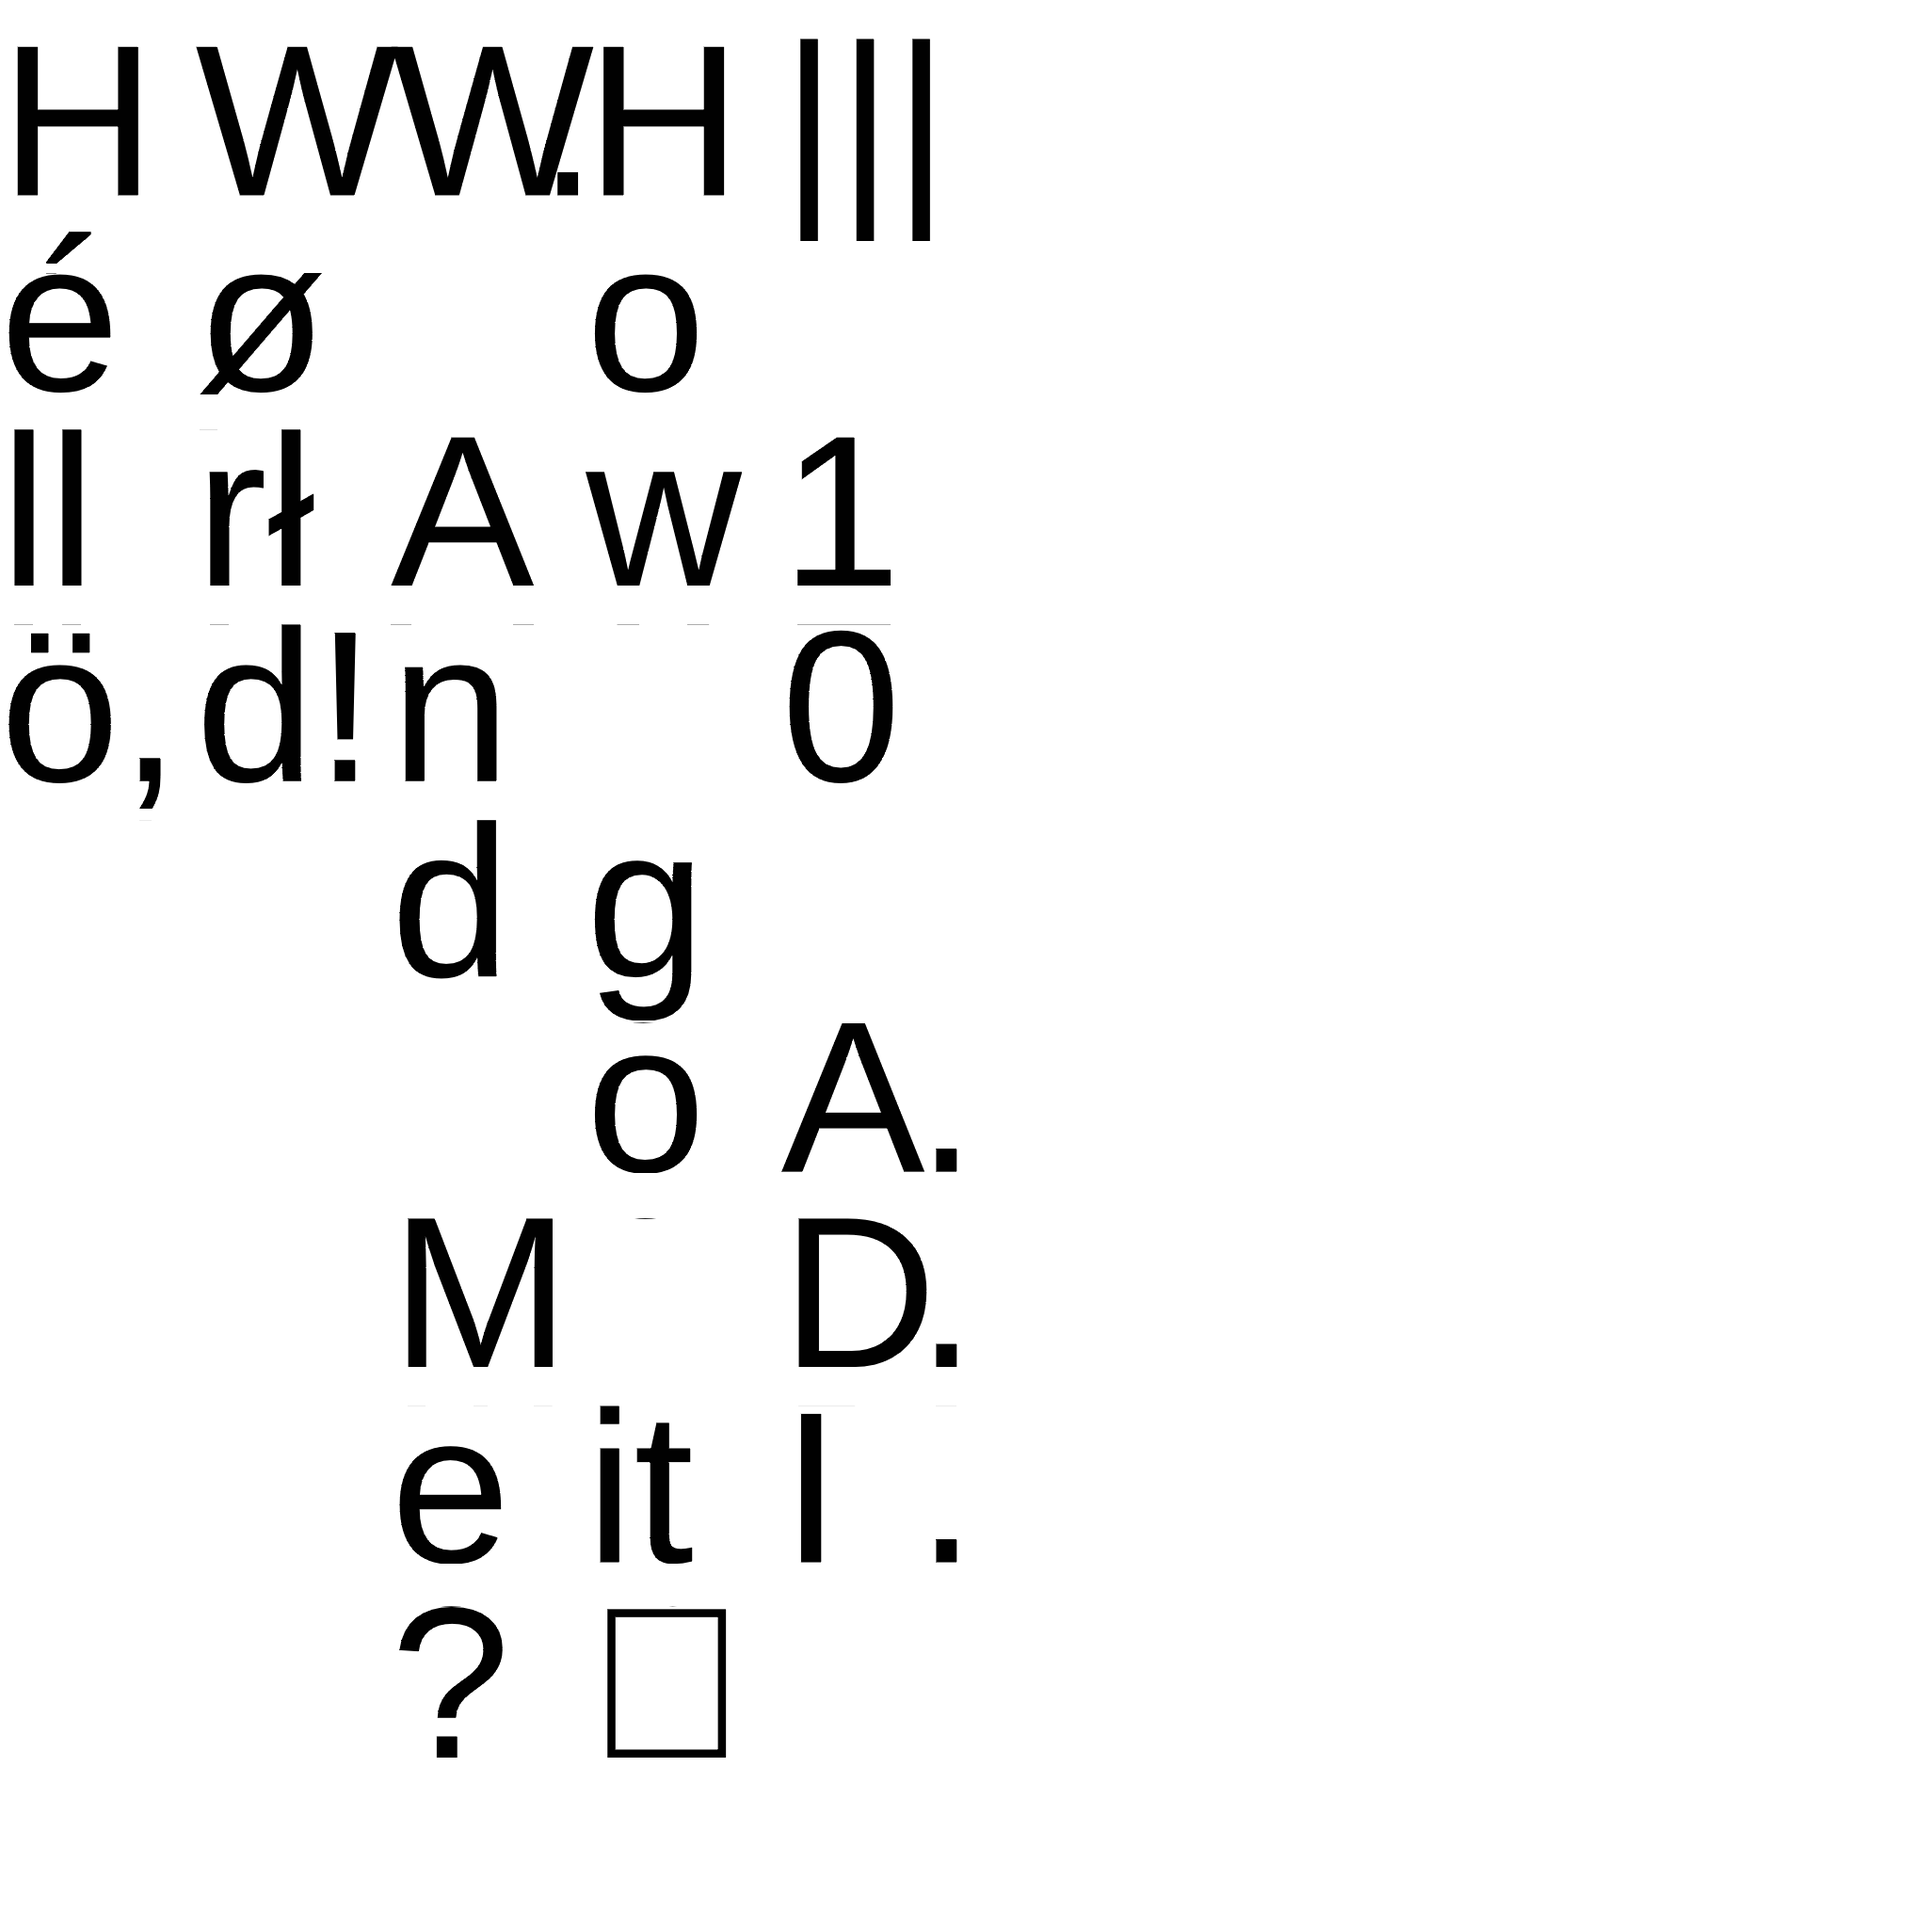
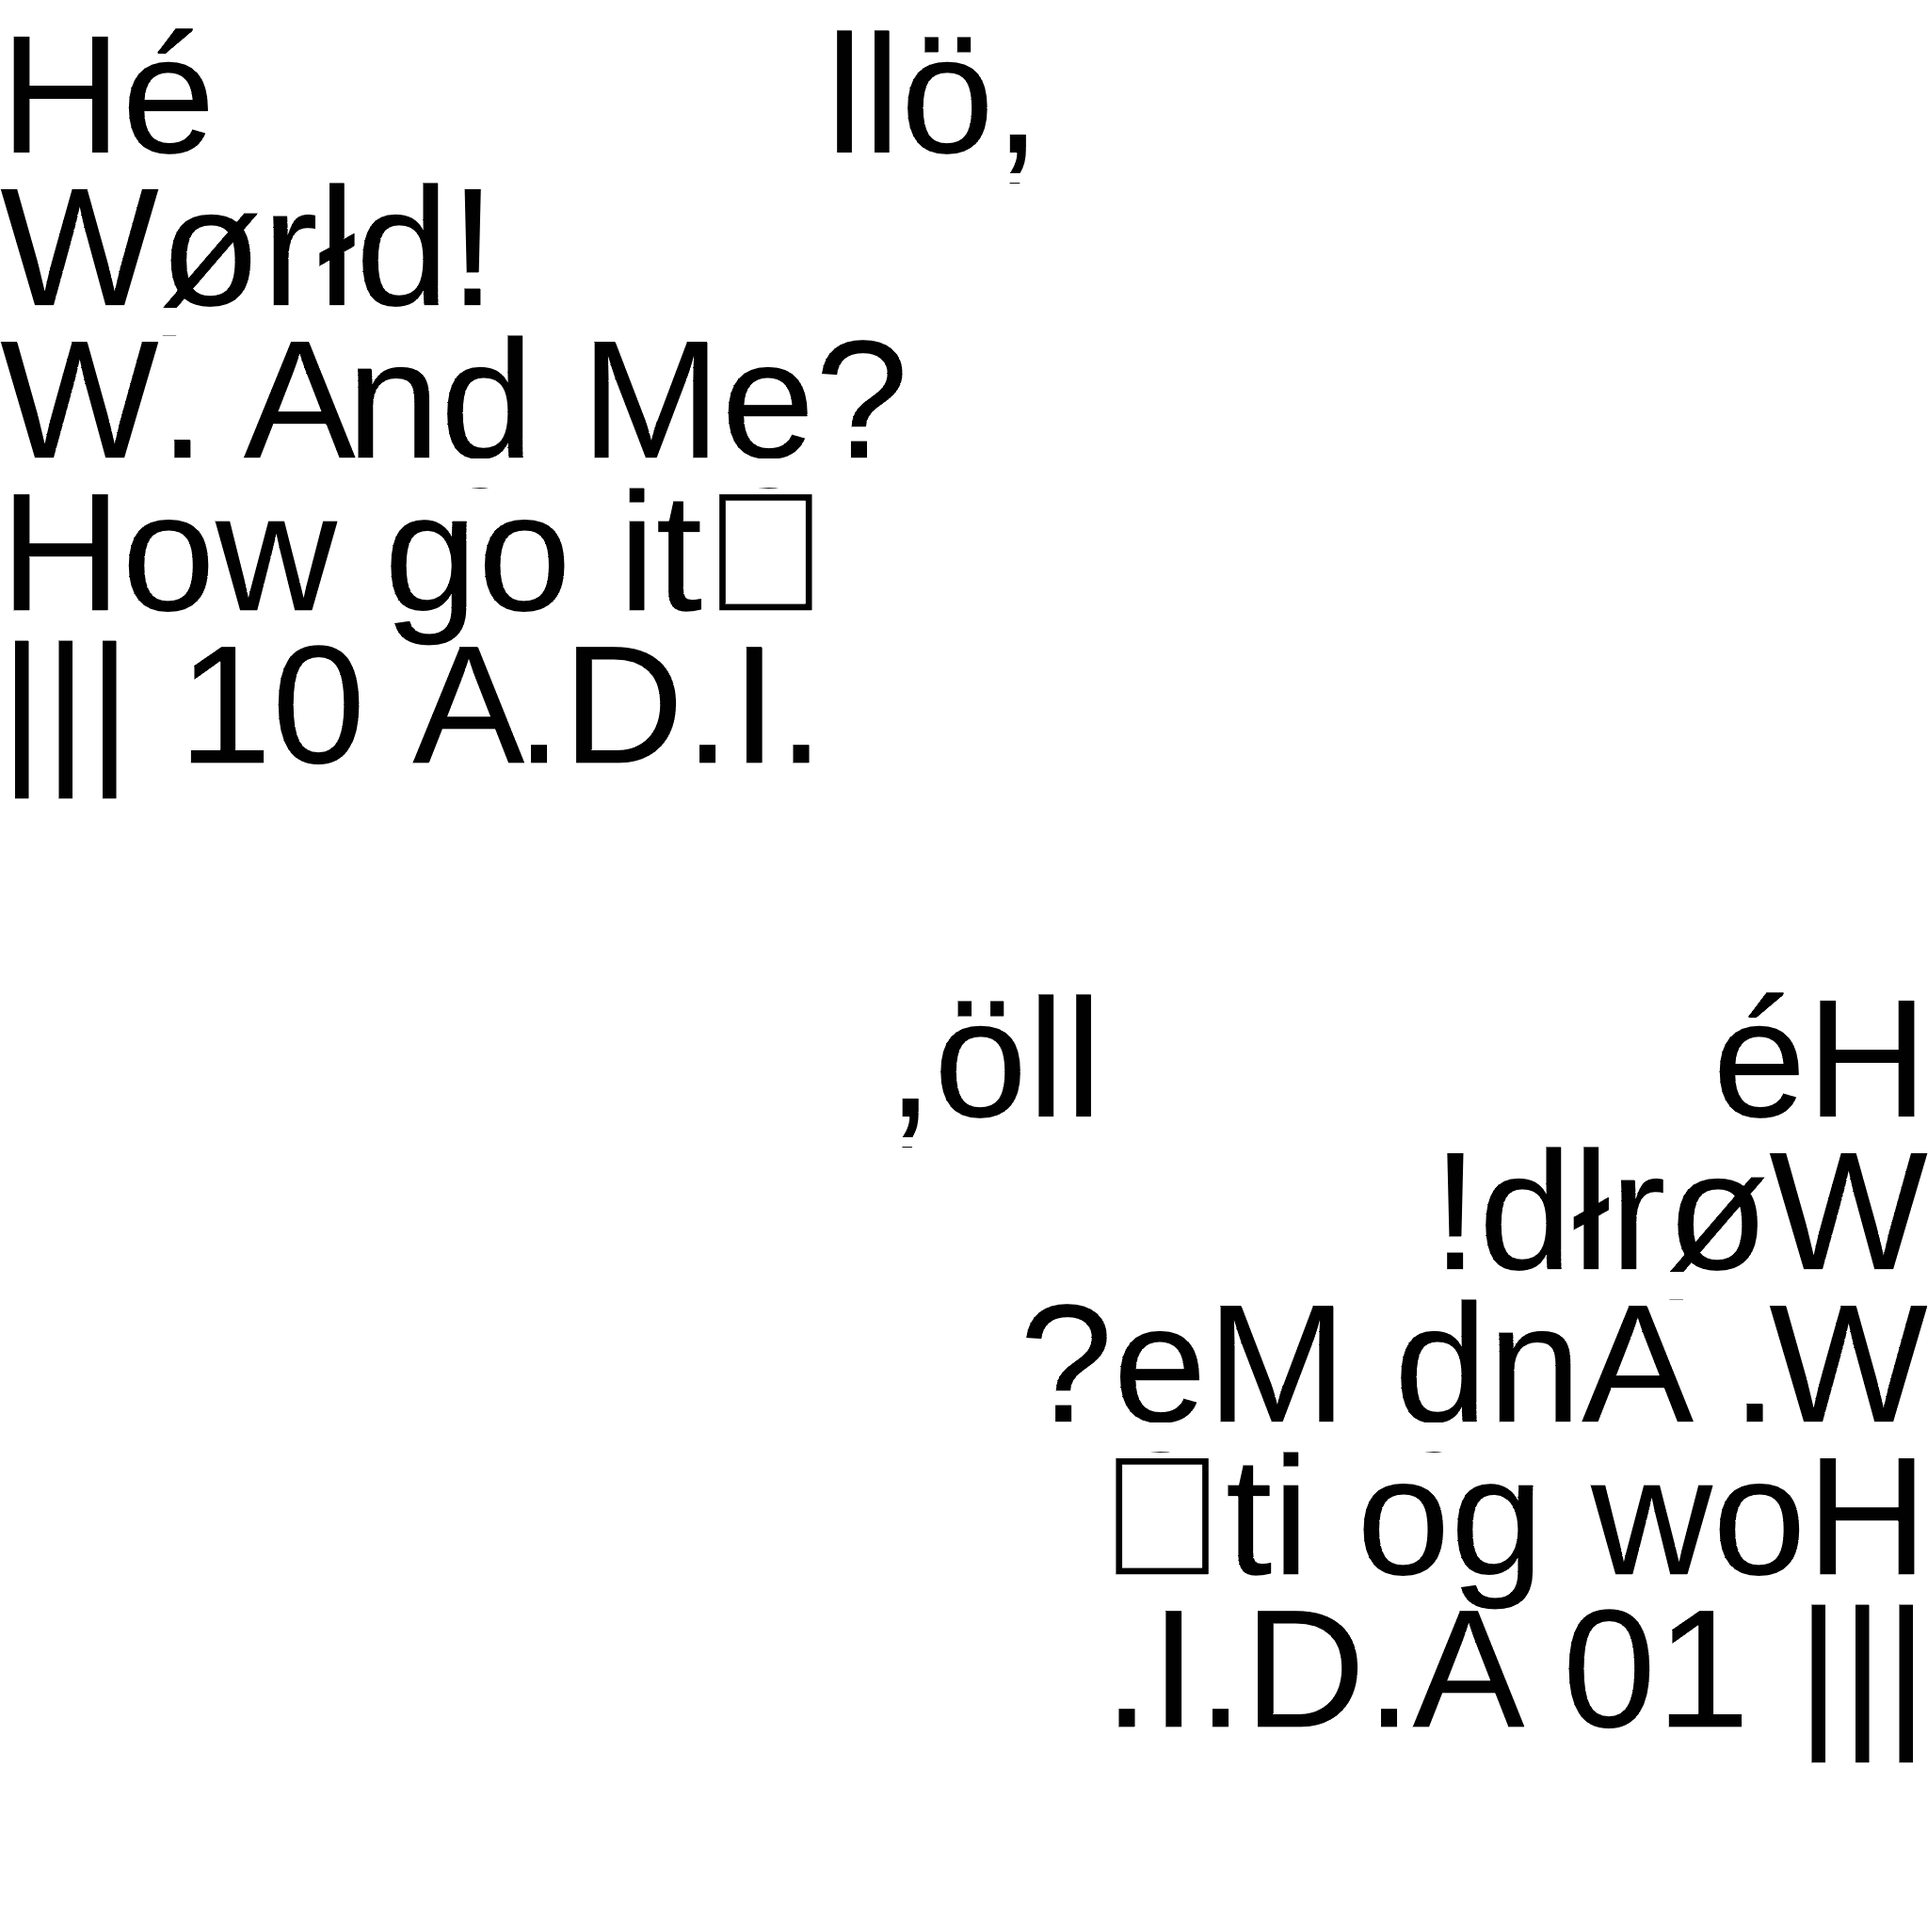
Added right-to-left text layout support.

diff --git a/src/lib.rs b/src/lib.rs
@@ -324,21 +324,9 @@ impl<'a> PathIterator<'a> {
         self
     }
 
-/*    /// Modify the iterator to align characters horizontally.  This is the default.
-    pub fn horizontal(mut self) -> &mut Self {
-        self.vt = false;
-        self
-    }*/
-    
-    /// Modify the iterator to align characters vertically rather than horizontally.
-    pub fn right_to_left(&mut self) -> &mut Self {
+    /// Modify the iterator to align characters right to left.
+    pub fn right_to_left(mut self) -> Self {
         self.rl = true;
-        self
-    }
-
-    /// Modify the iterator to align characters horizontally.  This is the default.
-    pub fn left_to_right(&mut self) -> &mut Self {
-        self.rl = false;
         self
     }
 }
@@ -360,7 +348,7 @@ impl<'a> Iterator for PathIterator<'a> {
                 self.advance = 0.0;
                 if self.vt { // Vertical text
                     self.cy = self.y;
-                    self.cx += glyph.font().v_metrics(glyph.v);
+                    self.cx += if self.rl { -1.0 } else { 1.0 } * glyph.font().v_metrics(glyph.v);
                     self.f = 0.0;
                 } else { // Horizontal text
                     self.cx = self.x;
@@ -378,7 +366,7 @@ impl<'a> Iterator for PathIterator<'a> {
                     self.f = 0.0;
                     self.cy += glyph.font().v_metrics(glyph.v);
                 } else {
-                    self.cx += glyph.font().v_metrics(glyph.v) * 4.0;
+                    self.cx += glyph.font().v_metrics(glyph.v) * if self.rl { -4.0 } else { 4.0 };
                 }
                 return Self::next(self);
             }
@@ -392,11 +380,10 @@ impl<'a> Iterator for PathIterator<'a> {
                     self.cy += glyph.font().v_metrics(glyph.v);
                 }
             } else { // Horizontal text
-                self.cx += self.advance;
+                self.cx += if self.rl { -self.advance } else { self.advance };
             }
             self.advance = advance;
             self.glyph = Some(glyph);
-
         }
 
         let shape = {
@@ -416,7 +403,7 @@ impl<'a> Iterator for PathIterator<'a> {
         let glyph = self.glyph.as_ref().unwrap();
         let ay = glyph.font().v_metrics(glyph.v);
 
-        let x = v.x as f32 * glyph.v.0 + self.cx + self.f;
+        let x = v.x as f32 * glyph.v.0 + self.cx + if self.rl { -self.advance - self.f } else { self.f };
         let y = -v.y as f32 * glyph.v.1 + self.cy + ay;
 
         use tt::VertexType;
@@ -424,7 +411,7 @@ impl<'a> Iterator for PathIterator<'a> {
         match v.vertex_type() {
             VertexType::LineTo => unsafe { OP = PathOp::Line(x, y) },
             VertexType::CurveTo => {
-                let cx = v.cx as f32 * glyph.v.0 + self.cx + self.f;
+                let cx = v.cx as f32 * glyph.v.0 + self.cx + if self.rl { -self.advance - self.f } else { self.f };
                 let cy = -v.cy as f32 * glyph.v.1 + self.cy + ay;
 
                 unsafe { OP = PathOp::Quad(cx, cy, x, y) };

diff --git a/examples/raster.rs b/examples/raster.rs
@@ -9,7 +9,9 @@ use fonterator::Font;
 use footile::{FillRule, Plotter, Raster, Rgba8};
 
 const FONT: &[u8] = include_bytes!("../font/LiberationSans-Regular.ttf");
-const FONT_SIZE: f32 = 256.0;
+const FONT_SIZE: f32 = 200.0;
+
+const STR: &'static str = "Hé\tllö,\nWørłd!\nW. And Me?\nHow go it‽\n||| 10 A.D.I.";
 
 fn main() {
     // This only succeeds if collection consists of one font
@@ -19,7 +21,13 @@ fn main() {
     let mut p = Plotter::new(2048, 2048);
     let mut r = Raster::new(p.width(), p.height());
 
-    let path = font.render("Hé\tllö,\nWørłd!\nW. And Me?\nHow go it‽\n||| 10 A.D.I.", (0.0, 0.0), (FONT_SIZE, FONT_SIZE)).vertical(); // path.build();
+//    let path = font.render(STR, (1024.0, 0.0), (FONT_SIZE, FONT_SIZE)).vertical().right_to_left();
+//    r.over(p.fill(path, FillRule::NonZero), Rgba8::rgb(0, 0, 0));
+//    let path = font.render(STR, (1024.0, 0.0), (FONT_SIZE, FONT_SIZE)).vertical();
+//    r.over(p.fill(path, FillRule::NonZero), Rgba8::rgb(0, 0, 0));
+    let path = font.render(STR, (0.0, 0.0), (FONT_SIZE, FONT_SIZE));
+    r.over(p.fill(path, FillRule::NonZero), Rgba8::rgb(0, 0, 0));
+    let path = font.render(STR, (2048.0, 1024.0), (FONT_SIZE, FONT_SIZE)).right_to_left();
     r.over(p.fill(path, FillRule::NonZero), Rgba8::rgb(0, 0, 0));
     r.write_png("raster.png").unwrap();
 }

diff --git a/README.md b/README.md
@@ -10,7 +10,8 @@ Load fonts as vector graphics in pure Rust - based on RustType
 * Load TTF fonts and font collections.
 * Load some OTF fonts and font collections.
 * Automatic kerning and font layout.
-* Supports both horizontal and vertical text layout.
+* Horizontal and vertical text layout.
+* Left-to-right and right-to-left text layout.
 
 **fonterator**'s planned features:
 * Support OpenType formatted fonts that are not just TrueType fonts (OpenType is
@@ -18,4 +19,3 @@ a superset of TrueType). Notably there is no support yet for cubic Bezier curves
 used in glyphs.
 * Support ligatures of any kind (‽, etc.).
 * Support some less common TrueType sub-formats.
-* Support right-to-left text layout.

diff --git a/changelog.md b/changelog.md
@@ -1,2 +1,8 @@
+## 0.2
+* Depend on Footile for `PathOp`s rather than afi.
+* Added vertical text layout support.
+* Added right-to-left text layout support.
+* Simpler `render` API replaces old nested iterator stuff.
+
 ## 0.1
-Initial release
+* Initial release
